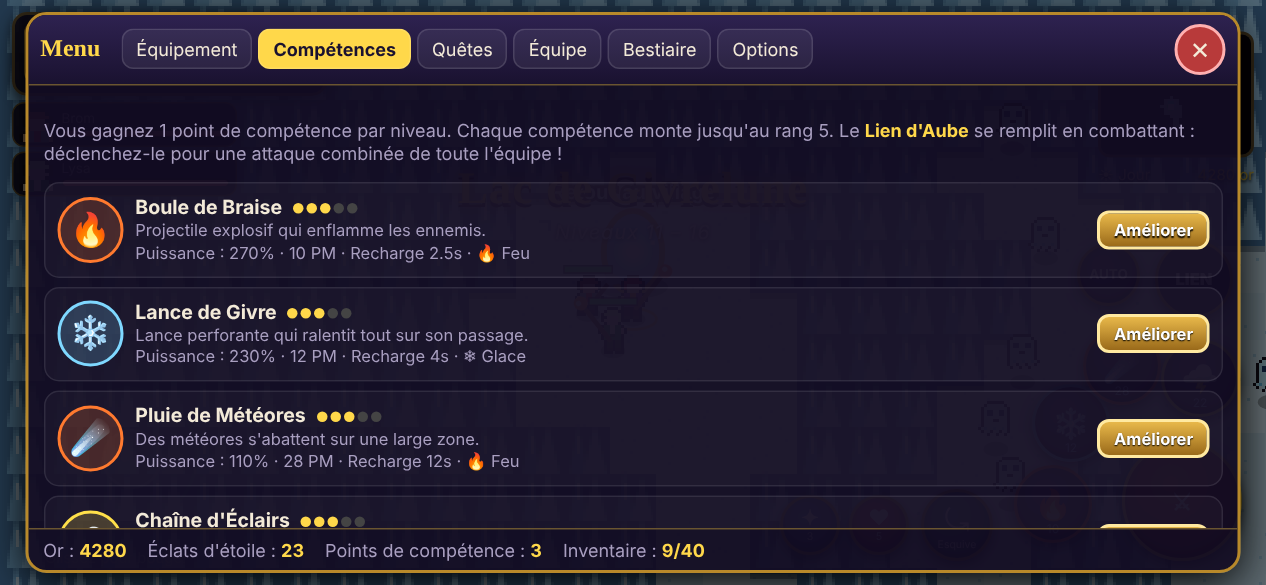
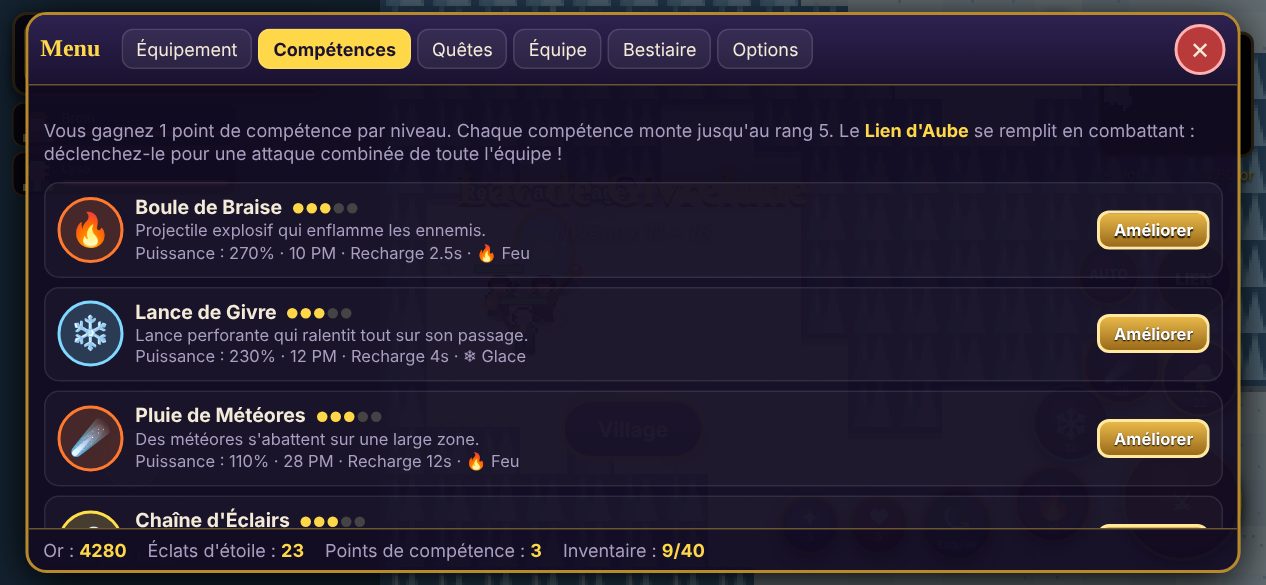
Équilibrage : donjons plus grands et réguliers, boss plus résistants, caméra centrée
Claude-Session: https://claude.ai/code/session_01DLVzBwSKXqGwfM3b8cwi1M

diff --git a/www/js/world.js b/www/js/world.js
@@ -47,15 +47,25 @@ G.world = (() => {
     };
   }
 
+  // Génère un donjon assez grand (on réessaie si la caverne obtenue est trop petite)
   function makeDungeon(zone, visit) {
+    let best = null;
+    for (let k = 0; k < 12; k++) {
+      const m = tryDungeon(zone, zone.seed * 1000 + visit * 17 + k);
+      if (!best || m.floor > best.floor) best = m;
+      if (m.floor >= 1150 && m.maxDist >= 85) return m;
+    }
+    return best;
+  }
+
+  function tryDungeon(zone, seed) {
     const w = 64, h = 52;
-    const seed = zone.seed * 1000 + visit;
     const r = G.util.rng(seed);
     let tiles = new Uint8Array(w * h);
     const idx = (x, y) => y * w + x;
     // Automate cellulaire
     for (let y = 0; y < h; y++) for (let x = 0; x < w; x++) {
-      tiles[idx(x, y)] = x === 0 || y === 0 || x === w - 1 || y === h - 1 || r() < 0.46 ? 1 : 0;
+      tiles[idx(x, y)] = x === 0 || y === 0 || x === w - 1 || y === h - 1 || r() < 0.43 ? 1 : 0;
     }
     const walls = (t, x, y) => {
       let n = 0;
@@ -141,7 +151,7 @@ G.world = (() => {
       if ((x - bx) ** 2 + (y - by) ** 2 < 100) continue;
       if (spawns.some((s) => (s.tx - x) ** 2 + (s.ty - y) ** 2 < 49)) continue;
       spawns.push({ tx: x, ty: y, x: x * 16 + 8, y: y * 16 + 8, d: dist[c] });
-      if (spawns.length >= 24) break;
+      if (spawns.length >= 26) break;
     }
     const T = 16;
     return {
@@ -149,7 +159,7 @@ G.world = (() => {
       start: { x: (start % w) * T + 8, y: ((start / w) | 0) * T + 8 },
       boss: { x: bx * T + 8, y: by * T + 8 },
       portal: { x: (start % w) * T + 8, y: ((start / w) | 0) * T - 8 },
-      spawns, maxDist: bd,
+      spawns, maxDist: bd, floor: tiles.reduce((n, t) => n + (t === 0 ? 1 : 0), 0),
     };
   }
 

diff --git a/www/js/combat.js b/www/js/combat.js
@@ -77,12 +77,12 @@ G.combat = (() => {
     const night = G.game.isNight();
     const nm = night ? 1.2 : 1;
     const elite = d.rank === 'elite', boss = d.rank === 'boss';
-    const hpMult = boss ? 1.8 : 1;
+    const hpMult = boss ? 2.6 : 1;
     const mhp = Math.round((24 + 16 * L) * d.hp * nm * hpMult);
     const m = {
       id: 'm' + U.uid(), mid, kind: 'mob', team: 'enemy', name: d.name, x, y, r: boss ? 9 : elite ? 7 : 5,
       hp: mhp, mhp, s: {
-        atk: (6 + 3.2 * L) * d.atk * nm, mag: (6 + 3.2 * L) * d.atk * nm,
+        atk: (6 + 3.2 * L) * d.atk * nm * (boss ? 1.2 : 1), mag: (6 + 3.2 * L) * d.atk * nm * (boss ? 1.2 : 1),
         def: (2 + 1.4 * L) * d.def, crit: boss ? 8 : 4, spd: d.spd,
       },
       lvl, def: d, rank: d.rank || 'normal', el: d.el, tpl: d.tpl, pal: d.pal, short: d.small, weapon: d.weapon,
